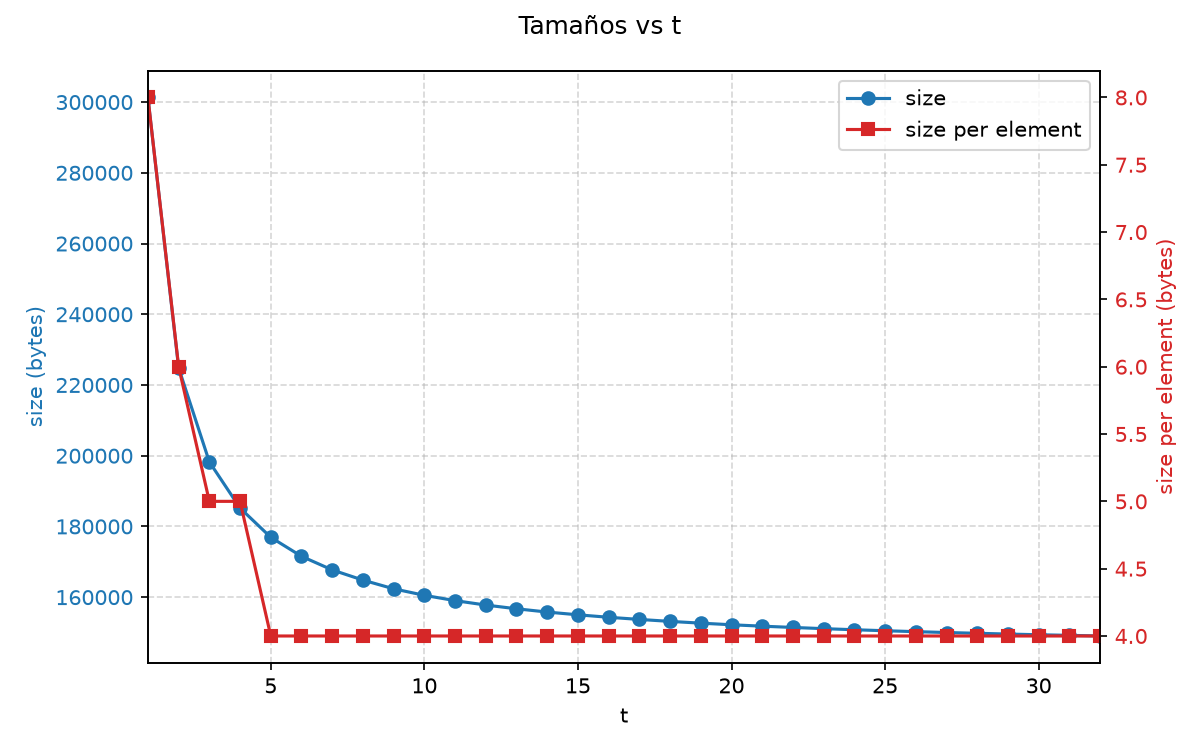
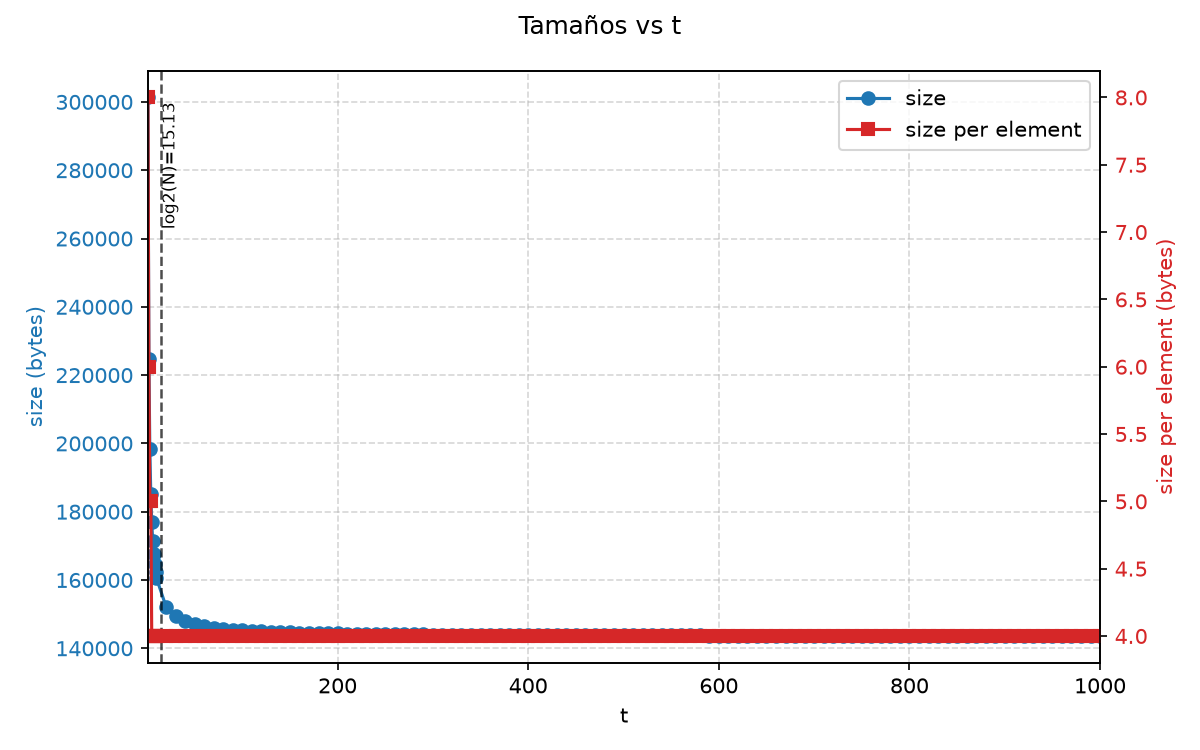
FEAT: Two way series for permutation benchm,ark-heuristic

diff --git a/plot.py b/plot.py
@@ -1,21 +1,45 @@
 #!/usr/bin/env python3
 """
 Grafica los resultados de permutation_results.csv:
-  1) Tiempos (Construction, Access, Inverse) en función de t
-  2) Tamaños (size, size per element) en función de t
+  1) Construction Time y Access Time en función de t
+  2) Inverse Time en función de t
+  3) Tamaños (size, size per element) en función de t
 
 Uso:
-    python plot_permutation_results.py [ruta_al_csv] [--out-dir CARPETA]
+    python plot_permutation_results.py [ruta_al_csv] [--out-dir CARPETA] [--N N]
 
 Si no se especifica ruta, busca "permutation_results.csv" en el directorio actual.
+Si se especifica --N, se dibuja una línea vertical en x = log2(N) en cada gráfico.
 """
 
 import argparse
+import math
 import sys
 from pathlib import Path
 
 import pandas as pd
 import matplotlib.pyplot as plt
+
+
+def add_log_line(ax, N: float, y_pos: str = "top"):
+    """Dibuja una línea vertical punteada en x = log2(N), con etiqueta."""
+    x_val = math.log2(N)
+    ax.axvline(x_val, color="black", linestyle="--", linewidth=1.2, alpha=0.7)
+
+    ylim = ax.get_ylim()
+    y_text = ylim[1] * 0.97 if y_pos == "top" else ylim[0] + (ylim[1] - ylim[0]) * 0.03
+    va = "top" if y_pos == "top" else "bottom"
+
+    ax.text(
+        x_val,
+        y_text,
+        f"  log2(N)={x_val:.2f}",
+        rotation=90,
+        va=va,
+        ha="left",
+        fontsize=8,
+        color="black",
+    )
 
 
 def load_csv(path: Path) -> pd.DataFrame:
@@ -65,7 +89,7 @@ def load_csv(path: Path) -> pd.DataFrame:
     return df
 
 
-def plot_times(df: pd.DataFrame, out_dir: Path):
+def plot_times(df: pd.DataFrame, out_dir: Path, N: float = None):
     df = df.sort_values("t")
     fig, ax = plt.subplots(figsize=(8, 5))
 
@@ -75,18 +99,22 @@ def plot_times(df: pd.DataFrame, out_dir: Path):
     ax.set_xlabel("t")
     ax.set_ylabel("Tiempo (s)")
     ax.set_title("Tiempos vs t")
-    ax.legend()
     ax.grid(True, linestyle="--", alpha=0.5)
     ax.set_xlim(df["t"].min(), df["t"].max())
     ax.xaxis.set_inverted(False)
 
+    if N is not None and N > 0:
+        add_log_line(ax, N)
+
+    ax.legend()
     fig.tight_layout()
     out_path = out_dir / "times_vs_t.png"
     fig.savefig(out_path, dpi=150)
     print(f"Guardado: {out_path}")
     plt.close(fig)
 
-def plot_inverse_time(df: pd.DataFrame, out_dir: Path):
+
+def plot_inverse_time(df: pd.DataFrame, out_dir: Path, N: float = None):
     df = df.sort_values("t")
     fig, ax = plt.subplots(figsize=(8, 5))
 
@@ -95,11 +123,14 @@ def plot_inverse_time(df: pd.DataFrame, out_dir: Path):
     ax.set_xlabel("t")
     ax.set_ylabel("Tiempo (s)")
     ax.set_title("Tiempos vs t")
-    ax.legend()
     ax.grid(True, linestyle="--", alpha=0.5)
     ax.set_xlim(df["t"].min(), df["t"].max())
     ax.xaxis.set_inverted(False)
 
+    if N is not None and N > 0:
+        add_log_line(ax, N)
+
+    ax.legend()
     fig.tight_layout()
     out_path = out_dir / "inverse_time_vs_t.png"
     fig.savefig(out_path, dpi=150)
@@ -107,7 +138,7 @@ def plot_inverse_time(df: pd.DataFrame, out_dir: Path):
     plt.close(fig)
 
 
-def plot_sizes(df: pd.DataFrame, out_dir: Path):
+def plot_sizes(df: pd.DataFrame, out_dir: Path, N: float = None):
     df = df.sort_values("t")
     fig, ax1 = plt.subplots(figsize=(8, 5))
 
@@ -127,6 +158,9 @@ def plot_sizes(df: pd.DataFrame, out_dir: Path):
     ax2.tick_params(axis="y", labelcolor=color2)
 
     fig.suptitle("Tamaños vs t")
+
+    if N is not None and N > 0:
+        add_log_line(ax1, N)
 
     # Leyenda combinada de ambos ejes
     lines1, labels1 = ax1.get_legend_handles_labels()
@@ -153,6 +187,12 @@ def main():
         default=".",
         help="Carpeta donde guardar los gráficos (default: directorio actual)",
     )
+    parser.add_argument(
+        "--N",
+        type=float,
+        default=None,
+        help="Si se especifica, dibuja una línea vertical en x = log2(N) en cada gráfico",
+    )
     args = parser.parse_args()
 
     csv_path = Path(args.csv_path)
@@ -172,9 +212,9 @@ def main():
         print(f"Columnas encontradas: {list(df.columns)}", file=sys.stderr)
         sys.exit(1)
 
-    plot_times(df, out_dir)
-    plot_inverse_time(df, out_dir)
-    plot_sizes(df, out_dir)
+    plot_times(df, out_dir, N=args.N)
+    plot_inverse_time(df, out_dir, N=args.N)
+    plot_sizes(df, out_dir, N=args.N)
 
 
 if __name__ == "__main__":

diff --git a/appBenchmark/benchmark-heuristic.cpp b/appBenchmark/benchmark-heuristic.cpp
@@ -13,9 +13,9 @@ namespace fs = std::filesystem;
 
 #include "canonicalDS/permutation.h"
 
-void permutation_t(int E){
+void permutation_t(int N){
     std::vector<int> S;
-    S.resize(E);
+    S.resize(N);
     std::iota(S.begin(), S.end(), 0);
 
     // 2. Initialize a high-quality random number engine
@@ -32,14 +32,15 @@ void permutation_t(int E){
         return;
     }
 
-    int opt = std::ceil(std::log2(E));
-    std::cout << " [*log2(E)*], " << opt << std::endl;
+    int opt = std::ceil(std::log2(N));
+    std::cout << "N: " << N << ", opt: " << opt << std::endl;
 
     std::string header = "t, size, size per element, Construction Time, Access Time, Inverse Time";
     csvFile << header << "\n";
-    std::cout << " [*t*], [*size*], [*size per element*], [*Construction Time*], [*Access Time*], [* Inverse Time*], " << std::endl;
+    std::cout << " [*t*], [*size*], [*size per element*], [*Construction Time*], [*Access Time*], [*Inverse Time*], [*Inverse Steps*]," << std::endl;
 
-    for (int t = 1; t <= 2*opt; ++t) {
+    //for (int t = 1; t <= 1000; t+=1) {// Second round
+    for (int t = 1; t<=opt*2; t+=1) {// First round
         auto start = std::chrono::high_resolution_clock::now();
         Permutation perm(S, t);
         auto end = std::chrono::high_resolution_clock::now();
@@ -47,8 +48,7 @@ void permutation_t(int E){
 
         // Test access
         auto accessStart = std::chrono::high_resolution_clock::now();
-        for (int i = 0; i < E; ++i) {
-            //std::cout << "perm.access(" << i << ") = " << perm.access(i) << std::endl;
+        for (int i = 0; i < N; ++i) {
             perm.access(i);
         }
         auto accessEnd = std::chrono::high_resolution_clock::now();
@@ -56,16 +56,23 @@ void permutation_t(int E){
 
         // Test inverse
         auto inverseStart = std::chrono::high_resolution_clock::now();
-        for (int i = 0; i < E; ++i) {
+        for (int i = 0; i < N; ++i) {
             perm.inverse(i);
         }
         auto inverseEnd = std::chrono::high_resolution_clock::now();
         float inverseTime = std::chrono::duration<float>(inverseEnd - inverseStart).count();
 
-        int sizeInBytes = perm.size_in_bytes();
-        int sizePerElement = sizeInBytes / E;
+        int sum = 0;
+        for (int i = 0; i < N; ++i) {
+            sum += perm.inverse_steps(i);
+        }
+        sum = sum / N;
 
-        std::cout << '[' << t << "], " << '[' << sizeInBytes << "], " << '[' << sizePerElement << "], " << '[' << constructionTime << "], "<< '[' << accessTime << "], "<< '[' << inverseTime << "], " << std::endl;
+
+        int sizeInBytes = perm.size_in_bytes();
+        int sizePerElement = sizeInBytes / N;
+
+        std::cout << '[' << t << "], " << '[' << sizeInBytes << "], " << '[' << sizePerElement << "], " << '[' << constructionTime << "], "<< '[' << accessTime << "], "<< '[' << inverseTime << "], " << '[' << sum << "], " << std::endl;
         csvFile << t << ", "
                  << sizeInBytes << ", "
                  << sizePerElement << ", "
@@ -73,6 +80,7 @@ void permutation_t(int E){
                  << accessTime << ", "
                  << inverseTime << ", "
                  << "\n";
+        //if (t > 9) t += 9; // For second round, skip some t values to reduce the number of iterations
     }
     csvFile.close();
     std::cout << "Results saved to permutation_results.csv" << std::endl;

diff --git a/appBenchmark/canonicalDS/permutation.cpp b/appBenchmark/canonicalDS/permutation.cpp
@@ -68,3 +68,21 @@ int Permutation::inverse(int index) {
 int Permutation::size_in_bytes() {
     return this->B.size_in_bytes() + this->pi.size() * 4 + this->S.size() * 4;
 }
+
+
+
+
+int Permutation::inverse_steps(int index) {  // versión de debug
+    int j = index, steps = 0;
+    bool s = true;
+    while (this->pi[j] != index) {
+        if (s && B.access(j)) {
+            j = S[B.rank1(j)];
+            s = false;
+        } else {
+            j = this->pi[j];
+        }
+        steps++;
+    }
+    return steps;
+}

diff --git a/appBenchmark/canonicalDS/permutation.h b/appBenchmark/canonicalDS/permutation.h
@@ -15,4 +15,5 @@ class Permutation {
         int access(int index);
         int inverse(int index);
         int size_in_bytes();
+        int inverse_steps(int index);
 };
